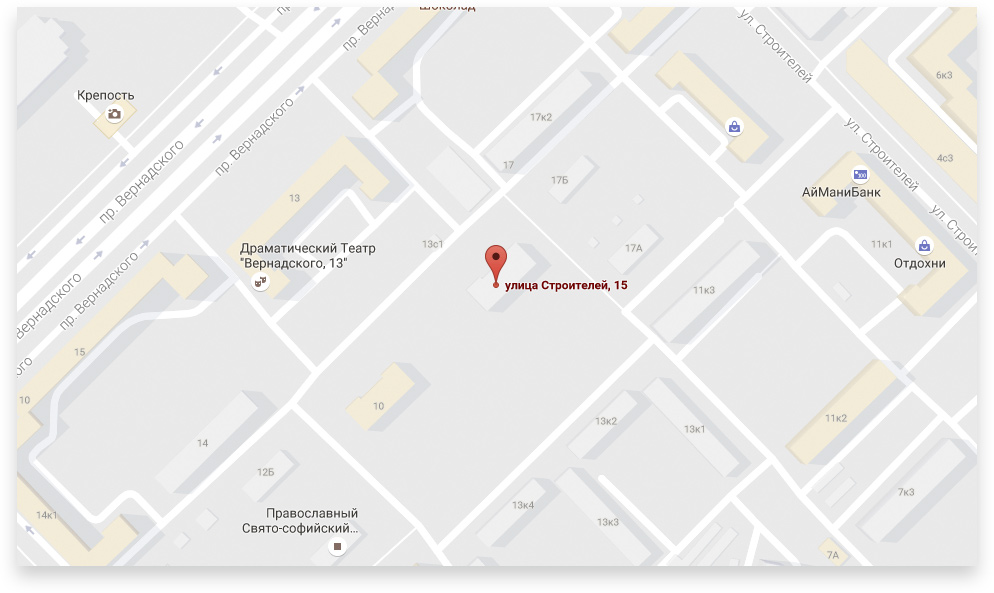
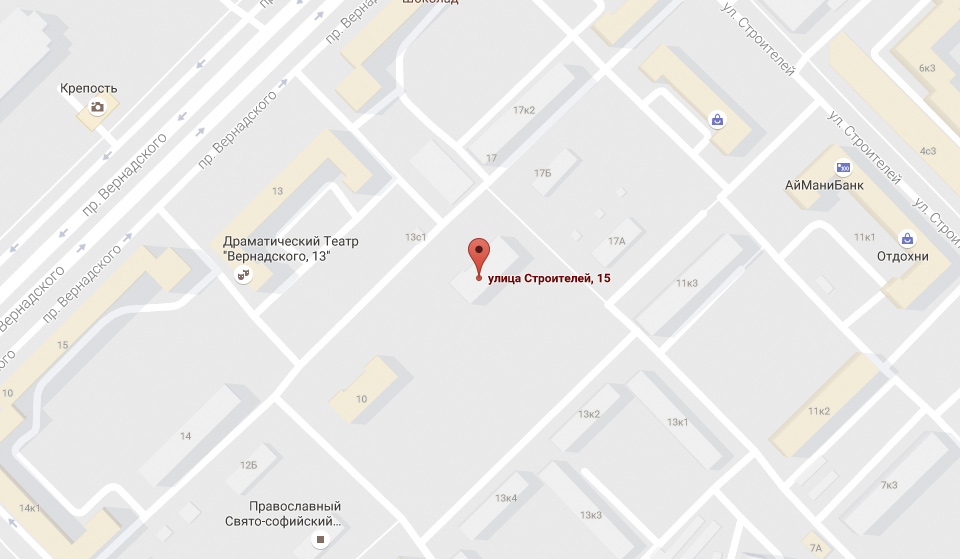
карта, лого
добавила карту без тени, добавила логотип

diff --git a/index.html b/index.html
@@ -7,30 +7,30 @@
 	<body>
 	<header class="main-header">
 		<nav class="main-navigation">
-			<img src="#" width="0" height="0" alt="Логотип Девайс">
+			<img src="img/logo.png" width="163" height="36" alt="Логотип Девайс">
 			<ul class="site-navigation">
-					<li>
-						<a href="catalog.html">Каталог товаров</a>
-							<ul class="dropdown-menu">
-								<li><a href="#">Виртуальная реальность</a></li>
-								<li><a href="#">Моноподы для селфи</a></li>
-								<li><a href="#">Экшн-камеры</a></li>
-								<li><a href="#">Фитнес браслеты</a></li>
-								<li><a href="#">Умные часы</a></li>
-								<li><a href="#">Квадрокоптеры</a></li>
-							</ul>	
-					</li>
-					<li><a href=#>Доставка</a></li>
-					<li><a href=#>Гарантия</a></li>
-					<li><a href=#>Контакты</a></li>
-				</ul>
+				<li>
+					<a href="catalog.html">Каталог товаров</a>
+					<ul class="dropdown-menu">
+						<li><a href="#">Виртуальная реальность</a></li>
+						<li><a href="#">Моноподы для селфи</a></li>
+						<li><a href="#">Экшн-камеры</a></li>
+						<li><a href="#">Фитнес браслеты</a></li>
+						<li><a href="#">Умные часы</a></li>
+						<li><a href="#">Квадрокоптеры</a></li>
+					</ul>	
+				</li>
+				<li><a href=#>Доставка</a></li>
+				<li><a href=#>Гарантия</a></li>
+				<li><a href=#>Контакты</a></li>
+			</ul>
 
 			<ul class="user-navigation">
 				<li>
-					<form class="filter" method="get" action="https://echo.htmlacademy.ru">
+					<form class="filter" method="post" action="https://echo.htmlacademy.ru">
 						<label for="search" class="visually-hidden">Поиск</label>
 						<input type="search" name="search" id="search" placeholder="Поиск по сайту">
-						<button class="" type="submit" value="Найти" aria-label="Найти">Найти</button>
+						<button class="" type="submit" value="Найти" aria-label="Кнопка най">Найти</button>
 					</form>	
 				</li>
 				<li><a href="#">Войти</a></li>
@@ -231,7 +231,7 @@
 	</main>	
 		<footer class="main-footer">
 			<div class="footer-left">
-				<img src="#" width="0" height="0" alt="Логотип Девайс">
+				<img src="img/logo_yellow.png" width="163" height="36" alt="Логотип Девайс">
 				<p>г.Москва, ул. Строителей, 15</p>
 			</div>
 
@@ -268,8 +268,8 @@
 		</footer>
 
 		<section class="modal modal-feedback">
-				<h2 class="visually-hidden">Обратная связь</h2>
-				<form class="feedback-form" method="get" action="https://echo.htmlacademy.ru">
+				<h2 class="visually-hidden">Форма обратной связи</h2>
+				<form class="feedback-form" method="post" action="https://echo.htmlacademy.ru">
 					<p class="feedback-item">
 						<label for="feedback-name">Ваше имя:</label>
 						<input type="text" name="feedback-name" id="feedback-name" placeholder="Имя Фамилия">
@@ -279,18 +279,18 @@
 						<input type="email" name="mail" id="feedback-mail" placeholder="email@example.com">
 					</p>
 					<p class="feedback-item">
-						<label for="feedback-area">Текст письма</label>
+						<label for="feedback-area">Текст письма:</label>
 						<input type="area" name="area" id="feedback-area" placeholder="В свободной форме">
 					</p>
-					<button type="submit" value="Отправить" aria-label="Отправить данные формы">Отправить</button>
+					<button class="" type="submit" value="Отправить" aria-label="Отправить форму">Отправить</button>
 				</form>	
-				<button class="modal-close" value="Закрыть" aria-label="Закрыть форму обратной связи">Закрыть</button>
+				<button class="modal-close" type="button" value="Закрыть" aria-label="Закрыть форму обратной связи">Закрыть</button>
 		</section>
 
 		<section class="modal modal-maps">
 				<h2 class="visually-hidden">Мы на карте</h2>
-				<img src="img/map-big.jpg" width="994" height="593" alt="maps">
-				<button class="modal-close" value="Закрыть" aria-label="Закрыть карту">Закрыть</button>
+				<img src="img/map-big.jpg" width="960" height="559" alt="Офис компании по адресу: г. Москва, ул. Строителей, 15">
+				<button class="modal-close" type="button" value="Закрыть" aria-label="Закрыть карту">Закрыть</button>
 				
 		</section>
 	</body>

diff --git a/catalog.html b/catalog.html
@@ -8,7 +8,7 @@
 		<header class="main-header">
 			<nav class="main-navigation">
 				<a class="main-header-logo" href="index.html">
-					<img src="#" width="0" height="0" alt="Логотип Девайс">
+					<img src="img/logo.png" width="163" height="36" alt="Логотип Девайс">
 				</a>
 				<ul class="site-navigation">
 					<li>
@@ -28,7 +28,7 @@
 				</ul>
 				<ul class="user-navigation">
 					<li>
-						<form class="filter" method="get" action="https://echo.htmlacademy.ru">
+						<form class="filter" method="post" action="https://echo.htmlacademy.ru">
 							<input type="search" name="search" id="search">
 							<label for="search" class="visually-hidden">Поиск</label>
 							<button type="submit" value="Найти" aria-label="Найти">Найти</button>
@@ -50,7 +50,7 @@
 			</ul>
 			<section class="filters">
 				<h2 class="visually-hidden">Фильтр товаров</h2>
-				<form class="filter" method="get" action="https://echo.htmlacademy.ru">
+				<form class="filter" method="post" action="https://echo.htmlacademy.ru">
 					<fieldset>
 							<legend>Стоимость</legend>
 							0<input type="range" name="price" id="range-price" min="0" max="9000" step="1000">9000
@@ -59,24 +59,24 @@
 						<legend>Стоимость</legend>
 						<ul>
 							<li class="filter-checkbox">
-								<input type="checkbox" name="black" id="filter-black" checked >
 								<label for="filter-black">черный</label>
+								<input class="visually-hidden" type="checkbox" name="black" id="filter-black" checked >
 							</li>
 							<li class="filter-option">
-								<input type="checkbox" name="white" id="filter-white">
 								<label for="filter-white">белый</label>
+								<input class="visually-hidden" type="checkbox" name="white" id="filter-white">
 							</li>
 							<li class="filter-option">
-								<input type="checkbox" name="blue" id="filter-blue" checked>
 								<label for="filter-blue">синий</label>
+								<input class="visually-hidden" type="checkbox" name="blue" id="filter-blue" checked>
 							</li>
 							<li class="filter-option">
-								<input type="checkbox" name="red" id="filter-red" checked>
 								<label for="filter-red">красный</label>
+								<input class="visually-hidden" type="checkbox" name="red" id="filter-red" checked>
 							</li>
 							<li class="filter-option">
-								<input type="checkbox" name="pink" id="filter-pink">
 								<label for="filter-pink">розовый</label>
+								<input class="visually-hidden" type="checkbox" name="pink" id="filter-pink">
 							</li>
 						</ul>
 					</fieldset>
@@ -84,16 +84,16 @@
 							<legend>Bluetooth</legend>
 							<ul>
 								<li class="filter-option">
-									<input type="radio" name="bluetooth" id="on" checked>
+									<input class="visually-hidden" type="radio" name="bluetooth" id="on" checked>
 									<label for="on">Есть</label>
 								</li>
 								<li class="filter-option">
-										<input type="radio" name="bluetooth" id="off">
+										<input class="visually-hidden" type="radio" name="bluetooth" id="off">
 										<label for="off">Нет</label>
 								</li>
 							</ul>
 					</fieldset>
-					<button type="submit" value="Показать" aria-label="Применить фильтр">Применить</button>
+					<button type="submit" value="Показать" aria-label="Применить фильтр">Показать</button>
 				</form>			
 			</section>
 
@@ -153,7 +153,7 @@
 
 		<footer class="main-footer">
 			<div class="footer-left">
-				<img src="#" width="0" height="0" alt="Логотип Девайс">
+				<img src="img/logo_yellow.png" width="163" height="36" alt="Логотип Девайс">
 				<p>г.Москва, ул. Строителей, 15</p>
 			</div>
 
